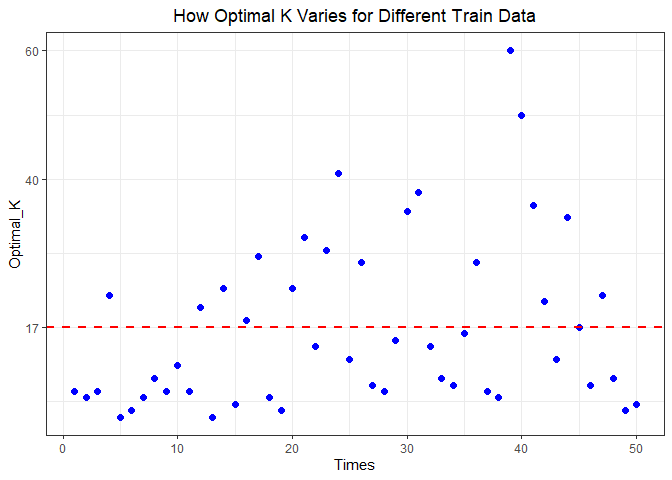
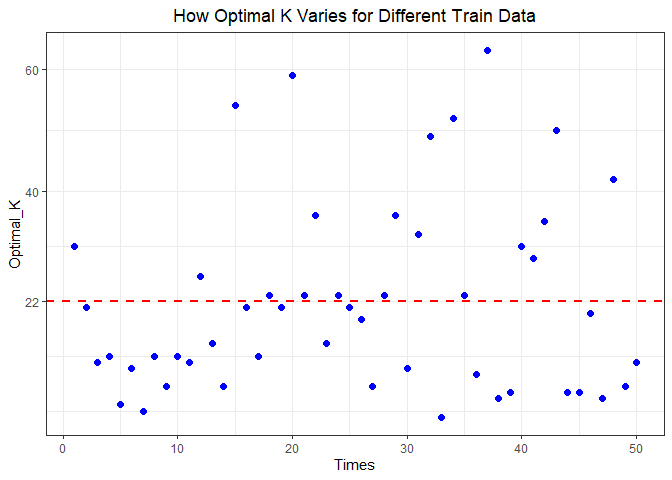
1

diff --git a/Exercise-1.md b/Exercise-1.md
@@ -4,7 +4,7 @@ By Eliza Malinova, Zhenghao Li, and Raushan Baizakova
 
 # 1\. Data Visualization: Flights at ABIA
 
-## 1.1 How Does the Airport Traffic Looks Like?
+## 1.1 How Does the Airport Traffic Look Like?
 
 This set of plots looks at the ABIA airport traffic over the course of
 the year, days of week and time of the days. As expected, the airport
@@ -34,18 +34,29 @@ the majority of other cities.
 ## 1.3 Are Monthly Average Departure Delay and Arrival Delay Different
 
 In this figure, we look at the mean of arrival and departure delays
-separately, to see which months have the highest average delays. In
-general, it is expected that departing flights have higher average delay
-time than arrivals. If we look at the months, December is a leading
-month for both the highest average arrival and departure delays,
-although we have found before that relatively it didn’t have the highest
-number of flights, which might be explained with the weather conditions
-of this month. According to the data, the best time of the year to
-minimize both the departure and arrival delays is September, which has
-about 3 minutes average departure time and very surprisingly zero
-average arrival delay time.
+separately, to see which months have the highest average delays . The
+graph reveals a positive relationship between arrival and departure
+delays. As departure delays increase or decrease in a given month,
+arrival delays increase/ decrease, respectively. As expected, if a
+traveler experiences a delay in his out of Austin flight, there is a
+great possibility that he or she will be faced with an arrival delay as
+well.
 
 <img src="Exercise-1_files/figure-gfm/unnamed-chunk-5-1.png" style="display: block; margin: auto;" />
+
+If we look at the months, December is a leading month for both the
+highest average arrival and departure delays, although we have found
+before that relatively it didn’t have the highest number of flights,
+which might be explained with the weather conditions of this month.
+According to the data, the best time of the year to minimize both the
+departure and arrival delays is September, which has about 3 minutes
+average departure time and very surprisingly zero average arrival delay
+time.
+
+Moreover, considering the highly positive correlation between departure
+delays and arrival delays, as well as the fact of departure delays are
+usual longer, the focus of following graphs will be on the departure
+delays.
 
 ## 1.4 For Every Weekday, Which Month Is the Worst For Travel
 
@@ -167,9 +178,9 @@ and then calculate the RMSE (out-of-sample root mean-squared error).
 <img src="Exercise-1_files/figure-gfm/unnamed-chunk-16-1.png" style="display: block; margin: auto;" />
 
     ##    Min. 1st Qu.  Median    Mean 3rd Qu.    Max. 
-    ##    3.00   11.25   16.00   25.02   42.00   75.00
+    ##    5.00   11.25   14.50   23.78   38.25   70.00
 
-    ## [1] 375.7751
+    ## [1] 385.6445
 
 For 350 trim level, we started from K=3 (K=2 results in an error) to
 K=332 (the number of rows in the Train subset). The optimal K is the K
@@ -189,13 +200,14 @@ We did the exact same to 65AMG trim level.
 <img src="Exercise-1_files/figure-gfm/unnamed-chunk-18-1.png" style="display: block; margin: auto;" />
 
     ##    Min. 1st Qu.  Median    Mean 3rd Qu.    Max. 
-    ##    3.00    7.00   12.00   16.82   23.00   60.00
+    ##    3.00   10.25   19.50   21.82   30.50   63.00
 
-    ## [1] 174.518
+    ## [1] 242.2322
 
 Comparing those two summaries of optimal K for 350 trim level and 65AMG
 trim level, the 350 trim level has higher mean, median, and variance
-(shown above). The main reason is probably that the data of 350 trim
-level is more spreading than the data of 65AMG trim level. So to fit the
-data, 350 trim level need near points more far away, which requires more
-nearest points to lower the RMSE as much as possible.
+that are shown in grey areas above. The main reason is probably that the
+data of 350 trim level is more spreading than the data of 65AMG trim
+level. So to fit the data, 350 trim level need near points more far
+away, which requires more nearest points to lower the RMSE as much as
+possible.
